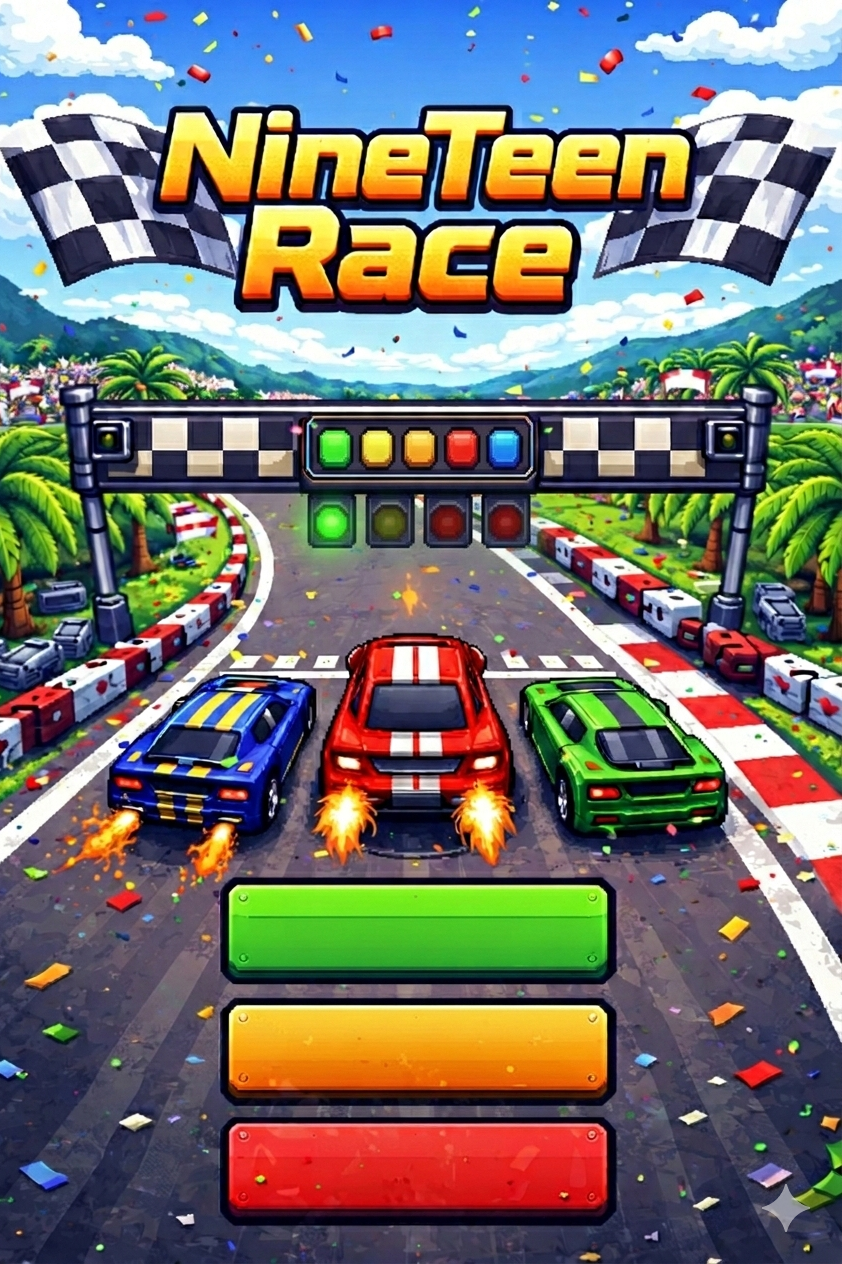
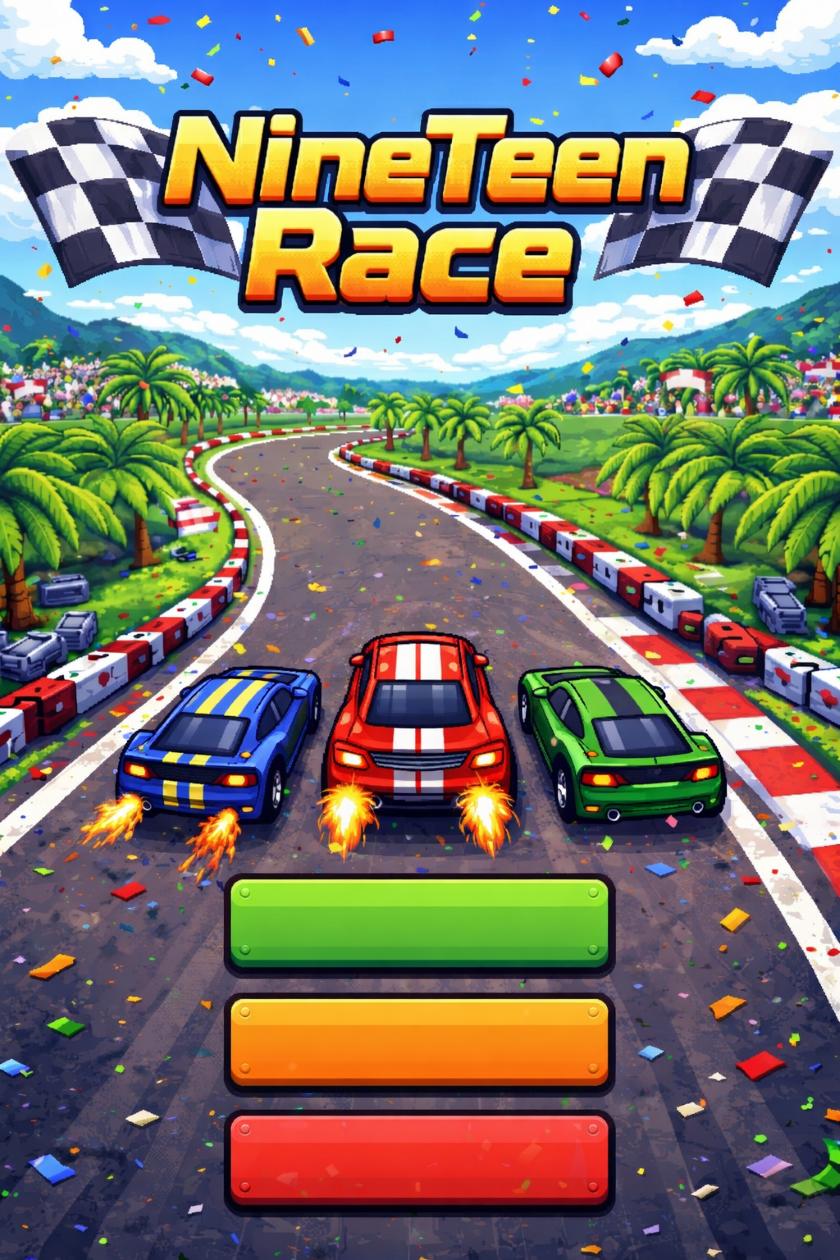
Adicionado novos assets, Modificado o menu e a inicialização do game

diff --git a/code/Game.py b/code/Game.py
@@ -1,16 +1,89 @@
 import pygame
+import sys
 
-from code.Constante import WINDOW_HEIGHT, WINDOW_WIDTH
+from code.Constante import COR_BRANCA, WINDOW_HEIGHT, WINDOW_WIDTH
 from code.Menu import Menu
 
 class Game:
     def __init__(self):
         pygame.init()
+        #self.window = window
         self.window = pygame.display.set_mode((WINDOW_WIDTH, WINDOW_HEIGHT))
+        self.clock = pygame.time.Clock()
+
+        ##
+        self.fonte_principal = pygame.font.SysFont('Arial', 40, bold=True)
+        # Cria a superfície do texto
+        self.surf_texto_space = self.fonte_principal.render("PRESSIONE ESPAÇO\n      PARA INICIAR", True, COR_BRANCA)
+        # Posiciona o texto (Centralizado horizontalmente, e a 100 pixels do fundo)
+        self.rect_texto_space = self.surf_texto_space.get_rect(center=(WINDOW_WIDTH // 2, WINDOW_HEIGHT - 500))
+        # Variáveis para o efeito de piscar
+        self.timer_pisca = pygame.time.get_ticks()
+        self.mostrar_texto = True
+        
+        ##
+
+        # Estados do Jogo
+        self.estado = 'SPLASH'
+        self.tempo_inicial = pygame.time.get_ticks() # Marca o tempo de inicio
+
+        # Carregamento das Imagens
+        self.surf_logo = pygame.image.load('asset/imagem/logo_empresa.png').convert_alpha()
+        self.rect_logo = self.surf_logo.get_rect(center=(WINDOW_WIDTH // 2, WINDOW_HEIGHT // 2))
+
+        self.surf_titulo = pygame.image.load('asset/imagem/background_titulo.png').convert_alpha()
+        self.rect_titulo = self.surf_titulo.get_rect(topleft=(0, 0))
+
+        
+
 
     def run(self):
+            running = True
+            while running:
+                # Captura o tempo atual para o controle do Splash
+                
+                agora = pygame.time.get_ticks()
 
-        while True:
-            menu = Menu(self.window)
-            menu.run()
-            pass
+                for event in pygame.event.get():
+                    if event.type == pygame.QUIT:
+                        running = False
+                    
+                    if self.estado == "TITLE" and event.type == pygame.KEYDOWN:
+                        if event.key == pygame.K_SPACE:
+                            self.estado = "MENU"
+
+                # 3. LÓGICA DE DESENHO (Usando os nomes certos)
+                if self.estado == "SPLASH":
+                    self.window.fill((0, 0, 0))
+                    # Use os nomes definidos no __init__
+                    self.window.blit(self.surf_logo, self.rect_logo)                    
+                    if agora - self.tempo_inicial > 5000:
+                        self.estado = "TITLE"
+                    
+                elif self.estado == "TITLE":
+                    # 1. Desenha o fundo da tela de título primeiro
+                    self.window.blit(self.surf_titulo, self.rect_titulo)
+
+                    # --- NOVO: Lógica para fazer o texto piscar ---
+                    if agora - self.timer_pisca > 500: # Muda a cada meio segundo
+                        self.mostrar_texto = not self.mostrar_texto
+                        self.timer_pisca = agora
+
+                    # 2. Se for o momento de mostrar, desenha o texto por cima do fundo
+                    if self.mostrar_texto:
+                        self.window.blit(self.surf_texto_space, self.rect_texto_space)
+                    
+                elif self.estado == "MENU":
+                    menu = Menu(self.window)
+                    escolha = menu.run() 
+                    
+                    if escolha == "INICIAR":
+                        self.estado = "LEVEL"
+                    elif escolha == "SAIR" or escolha == None:
+                        running = False
+
+                pygame.display.flip()
+                self.clock.tick(60) 
+
+            pygame.quit()
+            sys.exit()

diff --git a/code/Menu.py b/code/Menu.py
@@ -1,15 +1,16 @@
 import pygame
 
-from code.Constante import COR_BRANCA, MENU_OPCOES, WINDOW_WIDTH
+from code.Constante import COR_AZUL, COR_BRANCA, MENU_OPCOES, WINDOW_WIDTH
 
 
 class Menu:
     def __init__(self, window):
         self.window = window
-        self.surf = pygame.image.load('./asset/imagem/Menu.png').convert_alpha()
+        self.surf = pygame.image.load('./asset/imagem/menu.png').convert_alpha()
         self.rect = self.surf.get_rect()
 
     def run(self):
+        menu_opcoes = 0
         #pygame.mixer.music.load('./asset/som/racing_game_menu.mp3')
         #pygame.mixer.music.play(-1)
 
@@ -18,13 +19,12 @@ class Menu:
 
             self.window.blit(self.surf, self.rect)
 
-            #self.menu_text('START', 50, COR_BRANCA, WINDOW_WIDTH // 2, 930)
-            #self.menu_text('SCORE', 50, (COR_BRANCA), WINDOW_WIDTH // 2, 1050)
-            #self.menu_text('EXIT', 50, (COR_BRANCA), WINDOW_WIDTH // 2, 1170)
-
             for i in range(len(MENU_OPCOES)):
-                self.menu_text(MENU_OPCOES[i], 50, COR_BRANCA, WINDOW_WIDTH // 2, 930 + 120 * i)
-            
+                if i == menu_opcoes:
+                    self.menu_text(MENU_OPCOES[i], 45, COR_AZUL, WINDOW_WIDTH // 2, 925 + 120 * i)
+                else:
+                    self.menu_text(MENU_OPCOES[i], 45, COR_BRANCA, WINDOW_WIDTH // 2, 925 + 120 * i)
+                        
             pygame.display.flip()
 
             # Check todos os os eventos
@@ -32,6 +32,23 @@ class Menu:
                 if event.type == pygame.QUIT:
                     pygame.quit()
                     quit()
+
+                # Navegação do menu
+                if event.type == pygame.KEYDOWN:
+                    if event.key == pygame.K_DOWN:
+                        if menu_opcoes < len(MENU_OPCOES) - 1:
+                            menu_opcoes += 1
+                        else:
+                            menu_opcoes = 0
+                    
+                    if event.key == pygame.K_UP:
+                        if menu_opcoes > 0:
+                            menu_opcoes -= 1
+                        else:
+                            menu_opcoes = len(MENU_OPCOES) - 1
+                    
+                    if event.key == pygame.K_RETURN:
+                        return MENU_OPCOES[menu_opcoes]
 
     def menu_text(self, text, font_size, color, x, y):
 
@@ -50,12 +67,6 @@ class Menu:
             outline_rect = outline_surf.get_rect(center=(x + ox, y + oy))
             self.window.blit(outline_surf, outline_rect)
 
-
-        # Efeito de sombra (opcional)
-        #shadow_color = (20, 20, 20)  # Cor escura para a sombra
-        #shadow_surface = font.render(text, True, shadow_color) # Cor escura
-        #shadow_rect = shadow_surface.get_rect(center=(x + 6, y + 6))
-        #self.window.blit(shadow_surface, shadow_rect)
 
         # Texto principal
         text_surface = font.render(text, True, color)

diff --git a/code/Constante.py b/code/Constante.py
@@ -1,13 +1,14 @@
 # C
 
 COR_BRANCA = (255, 255, 255)
+COR_AZUL = (0, 0, 255)
 
 # M
-MENU_OPCOES = ('START', 
-               'SCORE', 
-               'EXIT')
+MENU_OPCOES = ('INICIAR', 
+               'RECORDES', 
+               'SAIR')
 
 # W
 
 WINDOW_WIDTH = 840
-WINDOW_HEIGHT = 1224
+WINDOW_HEIGHT = 1260
